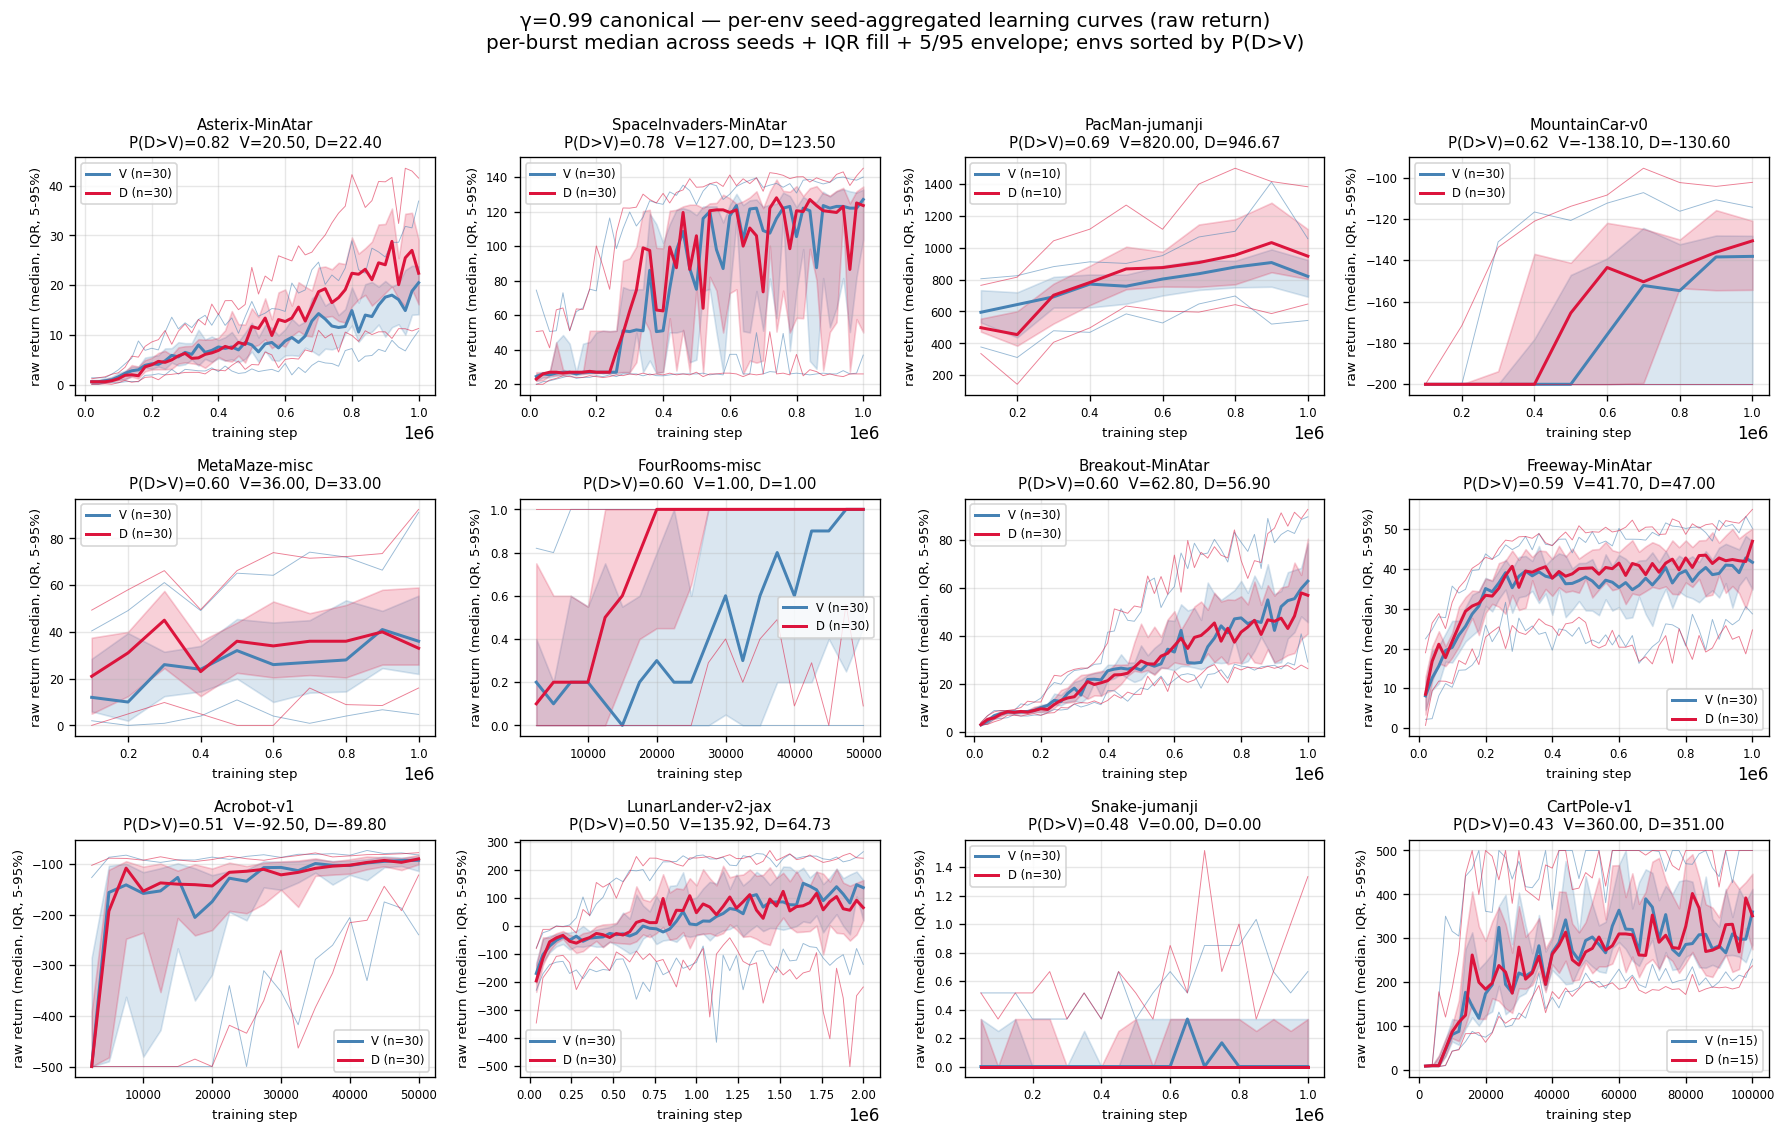
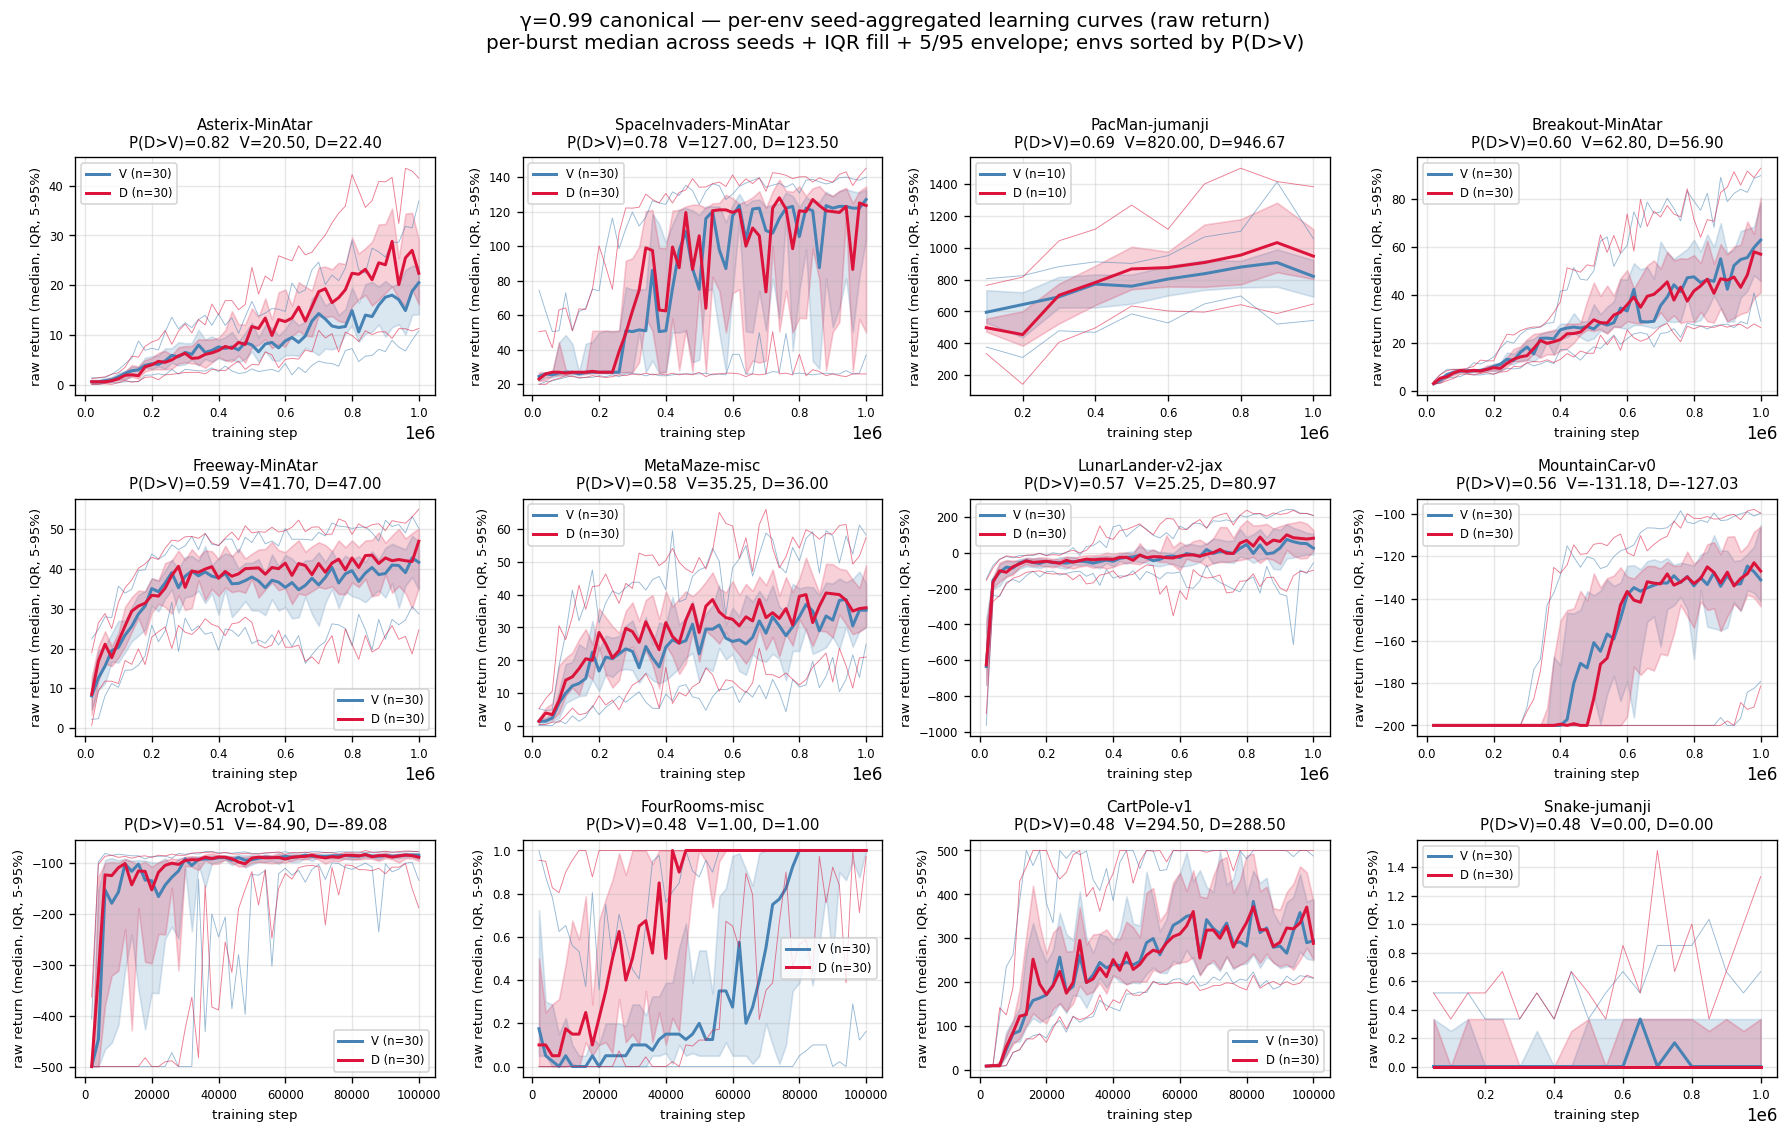
hasselt_clean canonical: swap 5 MLP envs (Acrobot/FR/LL/MetaMaze/MC) to full-Q canonical_n_eps20_ckpt surface; ingest 11 new corpora (n=30 each via partners).
The 6 MLP envs at γ=0.99 now all run on the canonical_n_eps20_ckpt surface:
n_eps=20 stochastic / n_eps=1 deterministic, 50 bursts per training, full
per-action Q + per-burst Q-checkpoints + per-burst mediator measurables.
Each env has both seeds 0-14 and seeds15to29 partner ingested → n=30 per arm.

LL partner ingested via nested sub-corpus path
(parent/canonical_g099_n_eps20) because top-level traces merge skipped on
disk pressure; sub-corpus _remote.json carries the cloud traces manifest.

Re-renders the per-env learning-curves figure on the new surface — LL
now shows clearer D advantage (P 0.50→0.57), FR shifts to slight V
advantage (P 0.60→0.48), MetaMaze n_eps=20 reveals larger absolute
magnitudes (V=63/D=57 vs old K=5 36/33).

diff --git a/experiments/findings/hasselt_clean/_scope.py b/experiments/findings/hasselt_clean/_scope.py
@@ -89,17 +89,27 @@ CANONICAL_G0999_CORPORA: tuple[str, ...] = (
 # canonical sweep exists for them (MinAtar γ=0.99 only at k=2/k=4;
 # fa_deep_g099 has no jdg).
 CANONICAL_G099_CORPORA: tuple[str, ...] = (
-    'acrobot_gamma_50k_30seeds',             # Acrobot γ=0.99 slice (50k, 30 seeds — outlier-free regime)
-    'fr_gamma_50k_30seeds',                  # FR γ=0.99 slice (50k, 30 seeds — pre-ceiling regime)
+    # 6 MLP envs — all on the NEW full-Q canonical_n_eps20_ckpt surface,
+    # paired with their seeds15to29 partner to reach n=30 per arm.
+    # Replaces the legacy {gamma_50k, _2M, _1M_postfix} entries that
+    # carried only the no-ckpt no-full-Q regime.
+    'acrobot_g099_canonical_n_eps20_ckpt',
+    'acrobot_g099_canonical_n_eps20_ckpt_seeds15to29',
+    'cartpole_g099_canonical_n_eps20_ckpt',
+    'cartpole_g099_canonical_n_eps20_ckpt_seeds15to29',
+    'fr_g099_canonical_n_eps20_ckpt',
+    'fr_g099_canonical_n_eps20_ckpt_seeds15to29',
+    'lunarlander_g099_canonical_n_eps20_ckpt',
+    'lunarlander_g099_canonical_n_eps20_ckpt_seeds15to29/canonical_g099_n_eps20',  # nested (top-level merge skipped on disk pressure)
+    'metamaze_g099_canonical_n_eps20_ckpt',
+    'metamaze_g099_canonical_n_eps20_ckpt_seeds15to29',
+    'mountaincar_g099_canonical_n_eps20_ckpt',
+    'mountaincar_g099_canonical_n_eps20_ckpt_seeds15to29',
+    # MinAtar / Jumanji envs — unchanged (no MLP-side canonical swap)
     'g099_Asterix-MinAtar',                  # MinAtar γ=0.99 v2 (sub-corpus, parent has no runs.parquet)
     'g099_Breakout-MinAtar',
     'g099_Freeway-MinAtar',
     'g099_SpaceInvaders-MinAtar',
-    'lunarlander_2M_30seeds_cpu/g099',       # LL γ=0.99 (2M, 30 seeds — supersedes lunarlander_tuned_sync1000_gpu 1M)
-    'metamaze_g099_1M_postfix',              # MetaMaze γ=0.99 (n_episodes=5; flag for re-sweep w/ n=20)
-    'mountaincar_1M_postfix',                # MountainCar γ=0.99
-    'cartpole_g099_canonical_n_eps20_ckpt',  # CartPole γ=0.99 (NEW: 100k, 15 seeds 0-14, full Q traces + ckpts, n_eps=1 — saturated env)
-    'cartpole_g099_canonical_n_eps20_ckpt_seeds15to29',  # CartPole γ=0.99 partner (seeds 15-29) — combined gives n=30
     'snake_1M',                              # Snake γ=0.99 (n_episodes=3 — noisier than rest)
     'pacman_1M_postfix',                     # PacMan γ=0.99 (n_episodes=3, 10 seeds/arm)
 )
